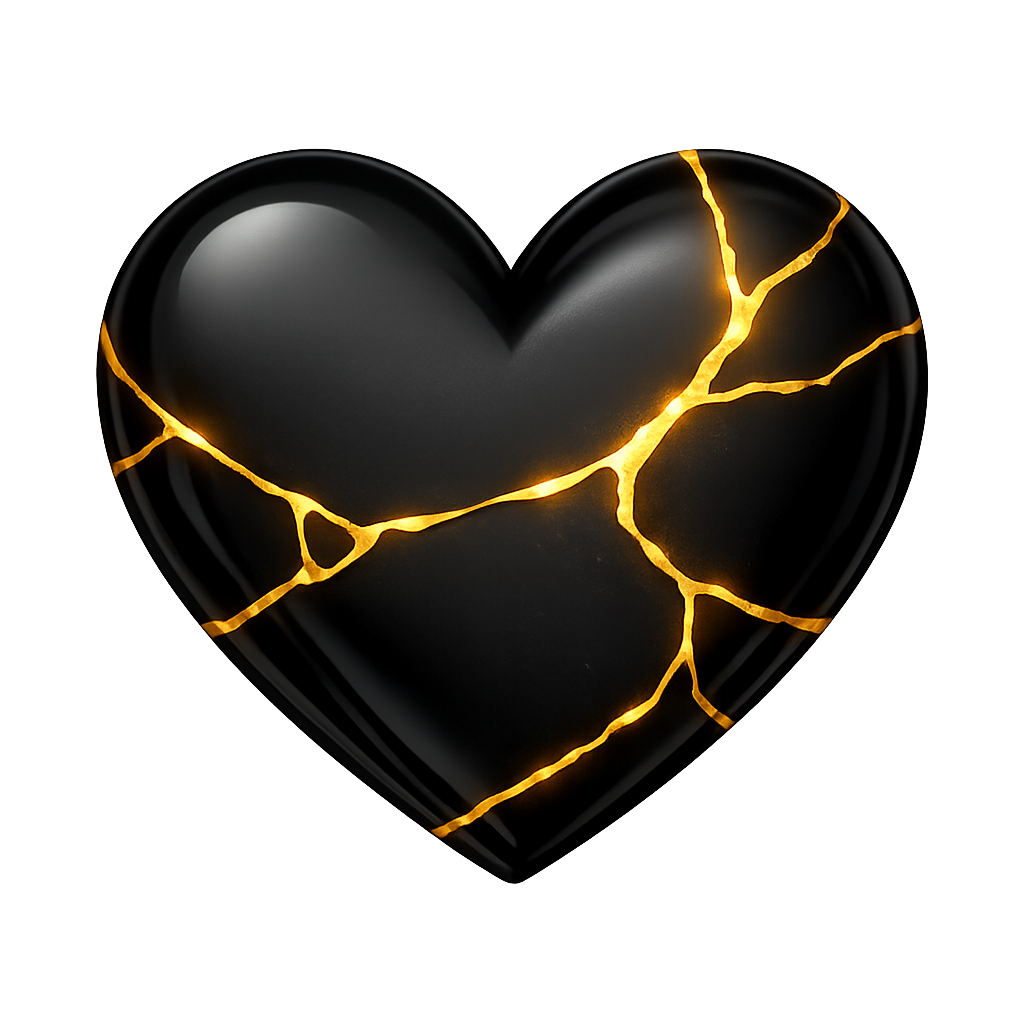
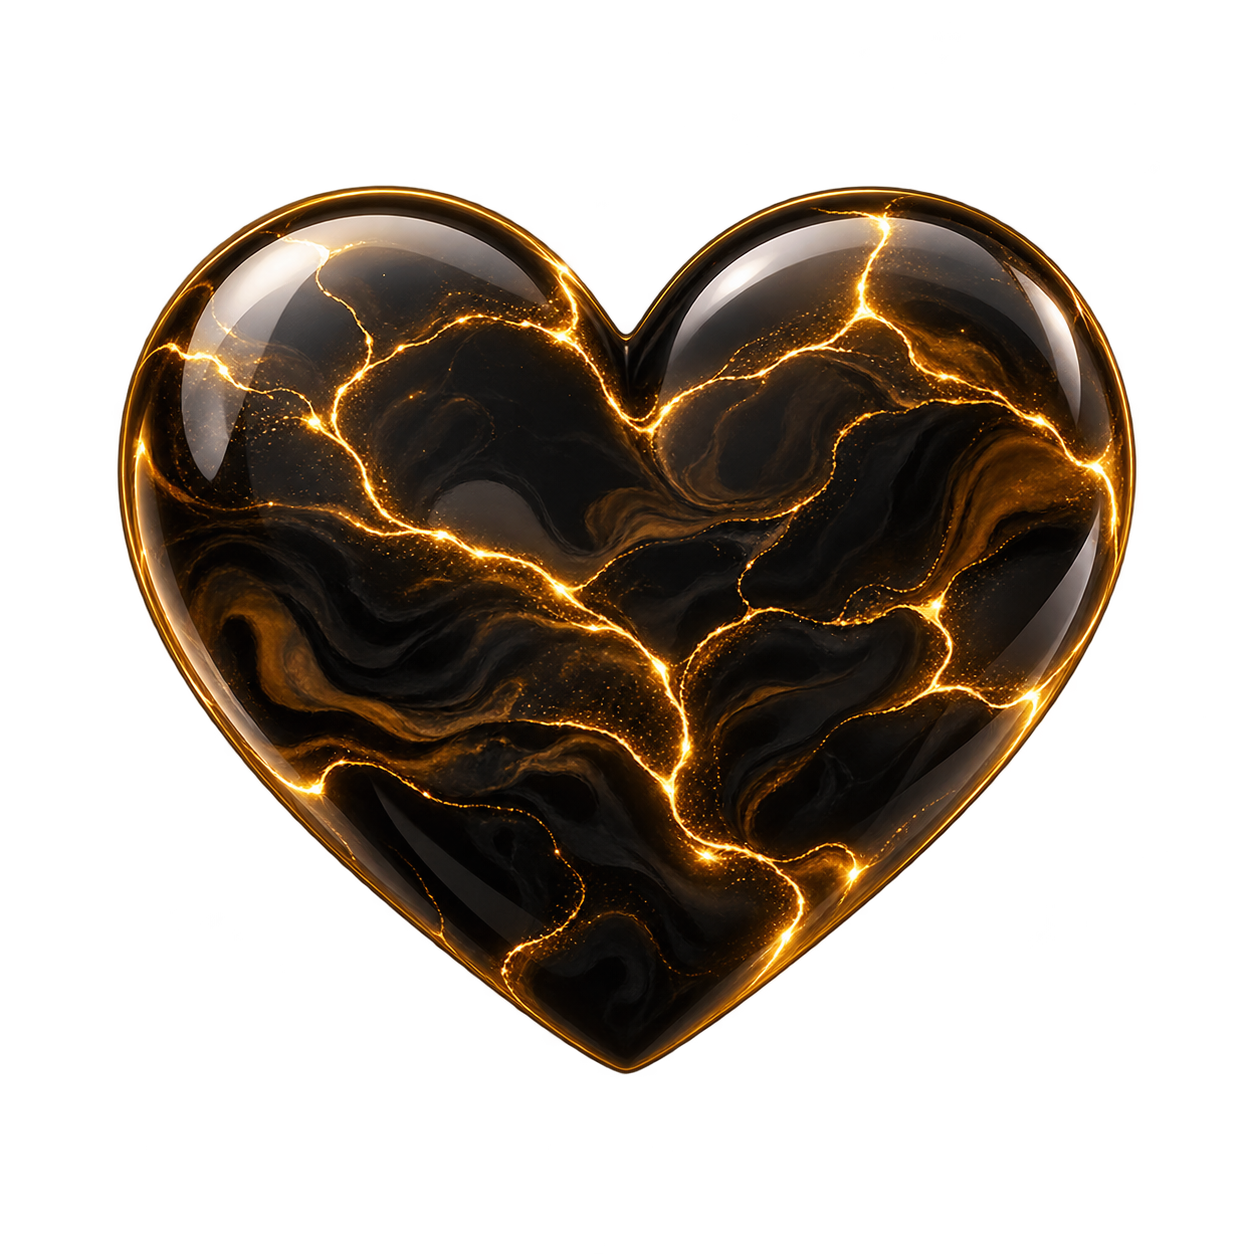
Add custom emojis and support WebP picker assets

Changed region(s): [[0.0938, 0.125, 0.9062, 0.875]]

diff --git a/public/index.html b/public/index.html
@@ -1603,9 +1603,10 @@ function md(t) {
     .replace(/(?<!\*)\*(?!\*)(.+?)(?<!\*)\*(?!\*)/g,'<em>$1</em>')
     .replace(/\n/g,'<br>');
 }
+const customEmojiFiles = Object.create(null);
 function emoji(t) {
   return t.replace(/:([a-zA-Z0-9_-]+):/g,(m,c)=>
-    `<img class="inline-emoji" src="/emojis/${c}.png" alt="${c}" title=":${c}:" onerror="this.replaceWith(document.createTextNode('${m}'))">`
+    `<img class="inline-emoji" src="/emojis/${customEmojiFiles[c] || c + '.png'}" alt="${c}" title=":${c}:" onerror="this.replaceWith(document.createTextNode('${m}'))">`
   );
 }
 function isEmojiOnly(text) {
@@ -1665,9 +1666,12 @@ async function loadCustomEmoji() {
     const data=await res.json();
     const g=$('customEmo');
     data.emojis.forEach(f=>{
+      const code=f.replace(/\.(png|gif|svg|webp)$/i,'');
+      if (!/^[a-zA-Z0-9_-]+$/.test(code)) return;
+      customEmojiFiles[code]=f;
       const d=document.createElement('div'); d.className='pick-item';
-      d.innerHTML=`<img src="/emojis/${f}" alt="${f.replace('.png','')}">`;
-      d.addEventListener('click',()=>insertEmoji(`:${f.replace('.png','')}:`));
+      d.innerHTML=`<img loading="lazy" src="/emojis/${f}" alt="${code}">`;
+      d.addEventListener('click',()=>insertEmoji(`:${code}:`));
       g.appendChild(d);
     });
   } catch(e){}

diff --git a/tests/frontend.test.js b/tests/frontend.test.js
@@ -19,6 +19,11 @@ test('formats multiline text and custom emoji without changing asset attributes'
   assert.match(result, /<em>you<\/em>/);
 });
 
+test('custom emoji uses its registered WebP filename', () => {
+  vm.runInContext("customEmojiFiles['arden-heh-innocent']='arden-heh-innocent.webp'", context);
+  assert.match(context.emoji(':arden-heh-innocent:'), /src="\/emojis\/arden-heh-innocent.webp"/);
+});
+
 test('emoji picker replaces the selected text at the caret and triggers input resizing', () => {
   let change, focused = false, closed = false;
   const input = { selectionStart:2, selectionEnd:5, setRangeText:(...args) => { change=args; }, dispatchEvent:event => assert.equal(event.type,'input'), focus:() => { focused=true; } };

diff --git a/server.js b/server.js
@@ -1307,7 +1307,7 @@ app.get('/api/emojis', (req, res) => {
   const emojiDir = path.join(__dirname, 'public', 'emojis');
   try {
     if (fs.existsSync(emojiDir)) {
-      const files = fs.readdirSync(emojiDir).filter(f => /\.(png|gif|svg)$/i.test(f));
+      const files = fs.readdirSync(emojiDir).filter(f => /\.(png|gif|svg|webp)$/i.test(f));
       res.json({ emojis: files });
     } else { res.json({ emojis: [] }); }
   } catch (e) { res.json({ emojis: [] }); }
